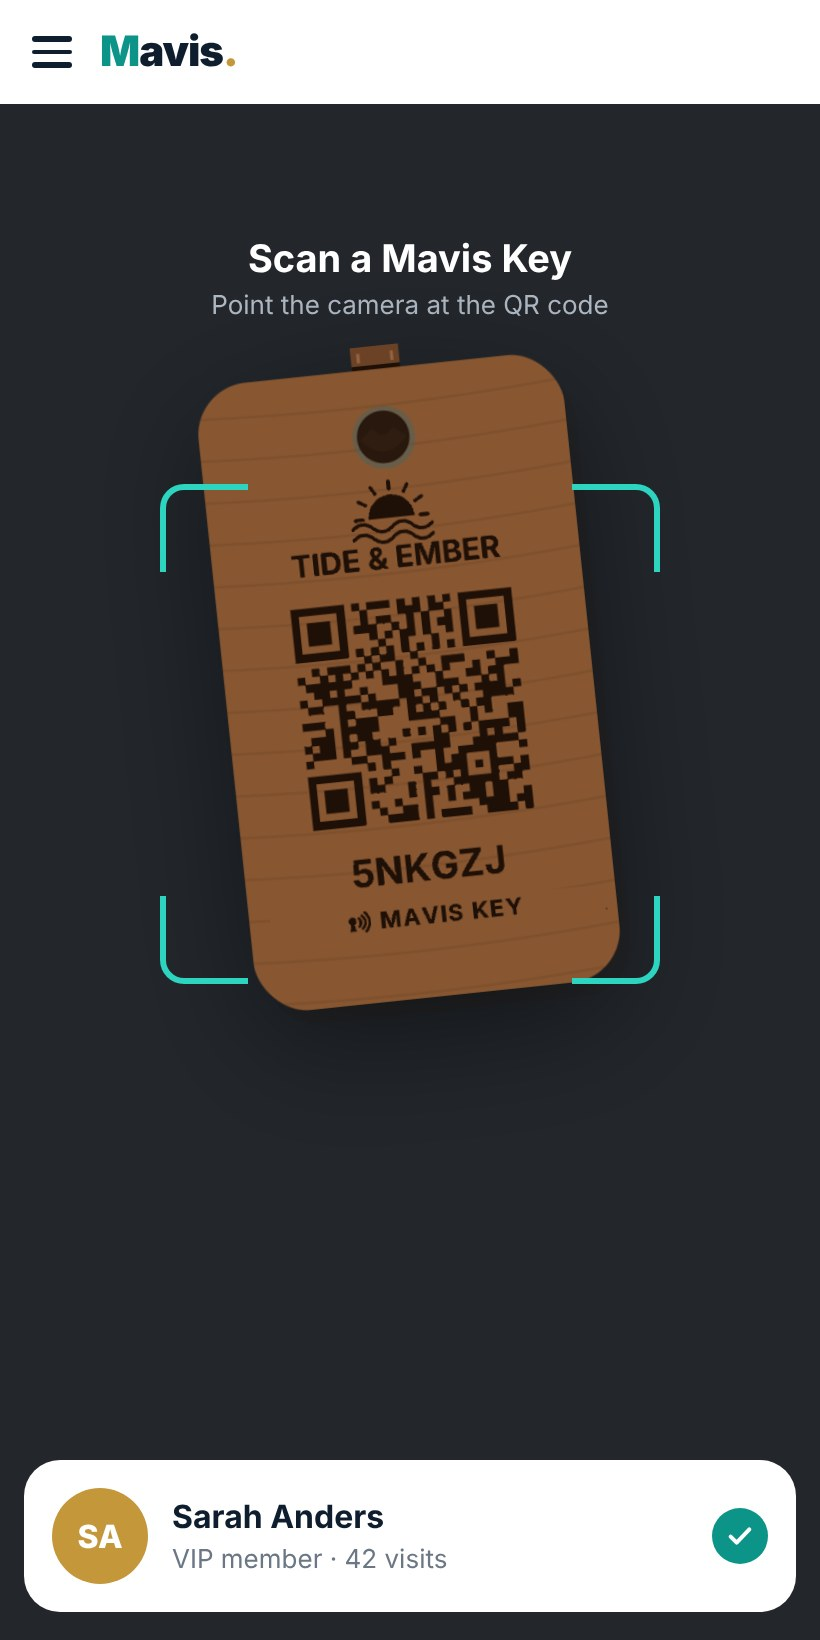
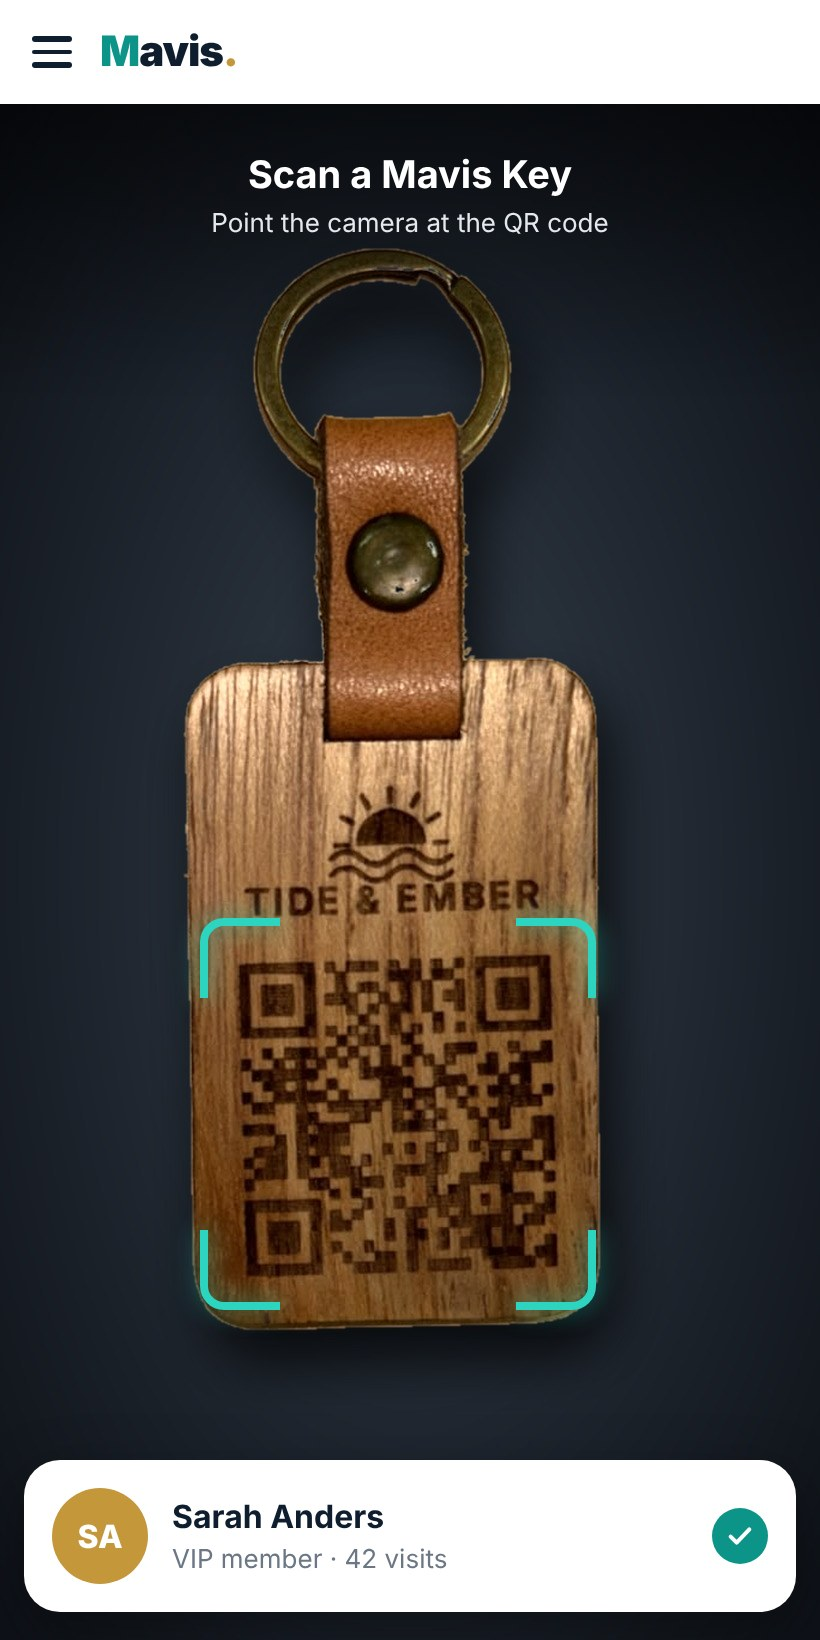
Mavis Key page: real Tide & Ember keyring photo on a dark background in the hero scan, scan line lined up; venues fanned out with coloured name tags; menus section just Food and Drinks, centred
Claude-Session: https://claude.ai/code/session_01PDrfwPm1ywymGCuyADBdVM

diff --git a/membership/index.html b/membership/index.html
@@ -173,6 +173,24 @@ details p{padding:0 0 20px;color:var(--ink);font-size:15.5px;line-height:1.6}
 .hero h1{font-size:clamp(38px,4.3vw,62px)!important}
 .hero .lead{font-size:17px}
 .hero .hduo>div{width:min(48%,350px)}
+.hero .scanl{left:26%;right:29%;animation-name:scanlh}@keyframes scanlh{from{top:55%}to{top:77%}}
+@media(min-width:701px){
+.phones.fan{position:relative;height:700px;display:block;width:100%;max-width:1160px;margin:0 auto}
+.phones.fan > div{position:absolute;width:270px!important;margin:0!important;transition:transform .35s}
+.phones.fan > div:nth-child(1){left:25%;top:0;transform:rotate(-2deg) scale(1.08);z-index:5}
+.phones.fan > div:nth-child(2){left:2%;top:60px;transform:rotate(-8deg);z-index:3}
+.phones.fan > div:nth-child(3){left:49%;top:30px;transform:rotate(3deg);z-index:4}
+.phones.fan > div:nth-child(4){left:72%;top:80px;transform:rotate(9deg);z-index:2}
+.phones.fan > div:hover{transform:translateY(-14px) rotate(0) scale(1.06);z-index:6}
+.phones.fan > div:nth-child(1):hover{transform:translateY(-14px) scale(1.1)}
+.phones.fan .cap{display:inline-block;background:var(--navy);color:#fff;padding:7px 14px;border-radius:99px;margin-top:14px;font-size:13px}
+.phones.fan > div{text-align:center}
+.phones.fan > div:nth-child(1) .cap{background:var(--teal)}
+.phones.fan > div:nth-child(2) .cap{background:#1D6FA3}
+.phones.fan > div:nth-child(3) .cap{background:#8E2A1E}
+.phones.fan > div:nth-child(4) .cap{background:#C4973B;color:var(--navy)}
+}
+@media(prefers-reduced-motion:reduce){.phones.fan > div{transition:none}}
 /* phones first: big screens, little text */
 .feat .wrap{grid-template-columns:minmax(0,1fr)!important;gap:46px;max-width:1280px}
 .feat .copy{text-align:center;max-width:760px;margin:0 auto}
@@ -268,7 +286,7 @@ details p{padding:0 0 20px;color:var(--ink);font-size:15.5px;line-height:1.6}
       <li><i><svg width="15" height="15" viewBox="0 0 24 24" fill="none" stroke="currentColor" stroke-width="3" stroke-linecap="round" stroke-linejoin="round"><path d="M20 6 9 17l-5-5"/></svg></i><span><b>Just one venue?</b> Then it's simply one page with everything on it.</span></li>
     </ul>
   </div>
-  <div class="phones four rv">
+  <div class="phones four fan rv">
     <div><div class="phone"><img src="/img/mem/g-places.jpg" alt="Main page with four venues" loading="lazy"></div><span class="cap">All your venues</span></div>
     <div><div class="phone"><img src="/img/mem/g-v-ombak.jpg" alt="Ombak Beach Club's own page" loading="lazy"></div><span class="cap">Ombak Beach Club</span></div>
     <div><div class="phone"><img src="/img/mem/g-v-saffron.jpg" alt="Saffron &amp; Salt's own page" loading="lazy"></div><span class="cap">Saffron &amp; Salt</span></div>
@@ -302,8 +320,7 @@ details p{padding:0 0 20px;color:var(--ink);font-size:15.5px;line-height:1.6}
       <li><i><svg width="15" height="15" viewBox="0 0 24 24" fill="none" stroke="currentColor" stroke-width="3" stroke-linecap="round" stroke-linejoin="round"><path d="M20 6 9 17l-5-5"/></svg></i><span><b>Never out of date.</b> We remind you when a menu hasn't been changed in three months.</span></li>
     </ul>
   </div>
-  <div class="phones rv">
-    <div><div class="phone"><img src="/img/mem/g-menus.jpg" alt="A venue page with Food menu and Drinks menu buttons" loading="lazy"></div><span class="cap">Menu buttons on each venue</span></div>
+  <div class="phones two rv">
     <div><div class="phone"><img src="/img/mem/g-menu-food.jpg" alt="The food menu opened on a phone" loading="lazy"></div><span class="cap">Food menu</span></div>
     <div><div class="phone"><img src="/img/mem/g-menu-drinks.jpg" alt="The drinks menu opened on a phone" loading="lazy"></div><span class="cap">Drinks menu</span></div>
   </div>
